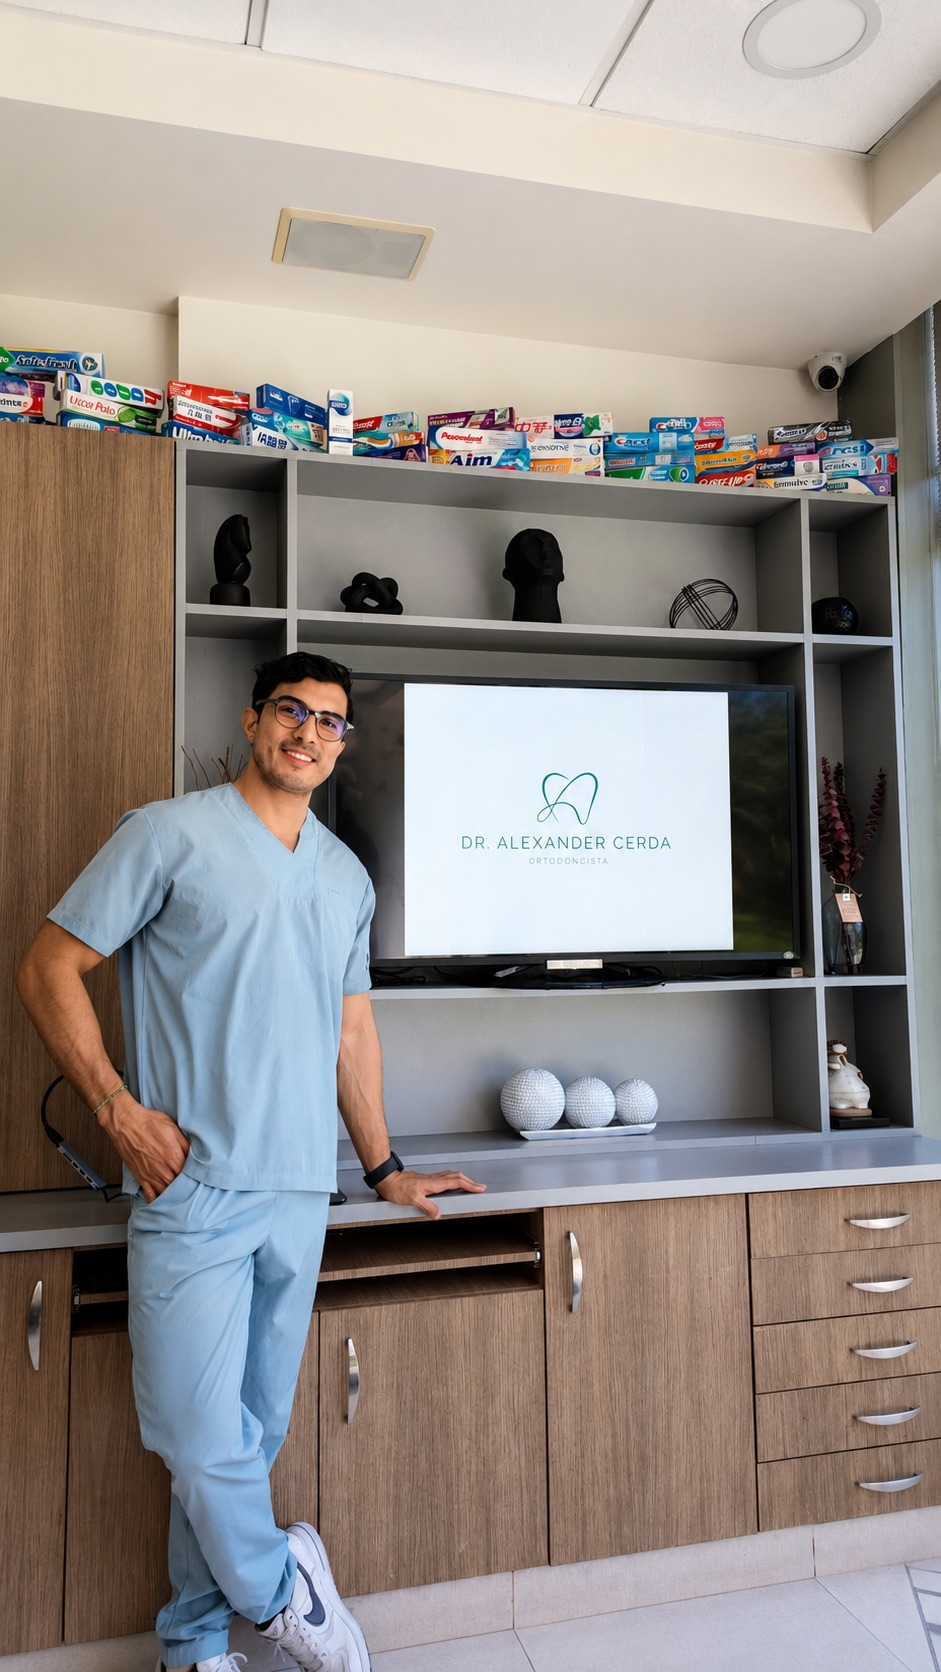
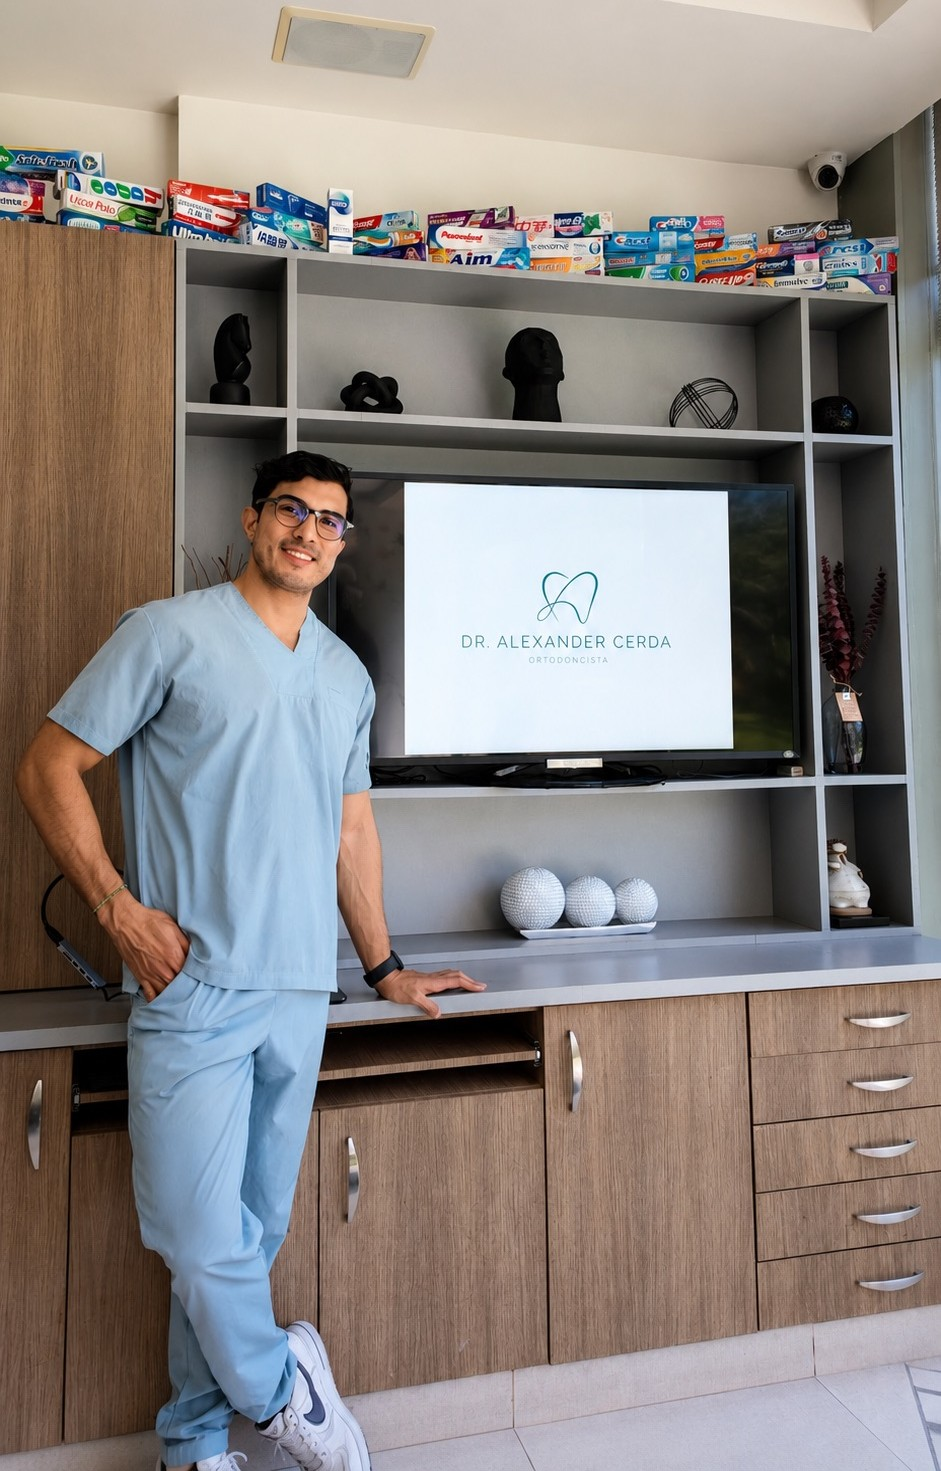
Y

diff --git a/src/components/Galery/Galery.tsx b/src/components/Galery/Galery.tsx
@@ -154,7 +154,7 @@ export default function Galery() {
                                 draggable={false}
                             />
                             {/* Contador */}
-                            <div className="absolute bottom-4 left-1/2 -translate-x-1/2 bg-white/15 backdrop-blur-sm text-white text-sm font-medium px-4 py-1.5 rounded-full border border-white/20">
+                            <div className=" absolute top-2 left-1/2 -translate-x-1/2 bg-white/15 backdrop-blur-sm text-white text-sm font-medium px-4 py-1.5 rounded-full border border-white/20">
                                 {selected + 1} / {photos.length}
                             </div>
                         </motion.div>

diff --git a/src/components/Navbar/Navbar.tsx b/src/components/Navbar/Navbar.tsx
@@ -14,8 +14,10 @@ const NAV_LINKS = [
   { label: "Inicio", href: "#inicio" },
   { label: "Sobre mí", href: "#sobre-mi" },
   { label: "Tratamientos", href: "#tratamientos" },
+  { label: "Galeria", href: "#galeria" },
   { label: "Pagos", href: "#pagos" },
   { label: "Preguntas frecuentes", href: "#faq" },
+
 ];
 
 export default function Navbar() {
